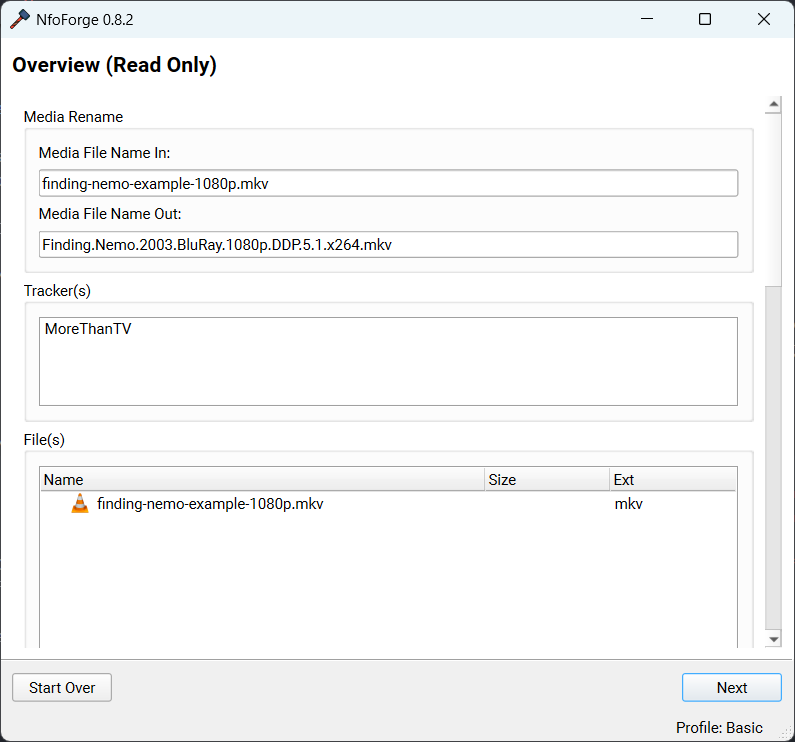
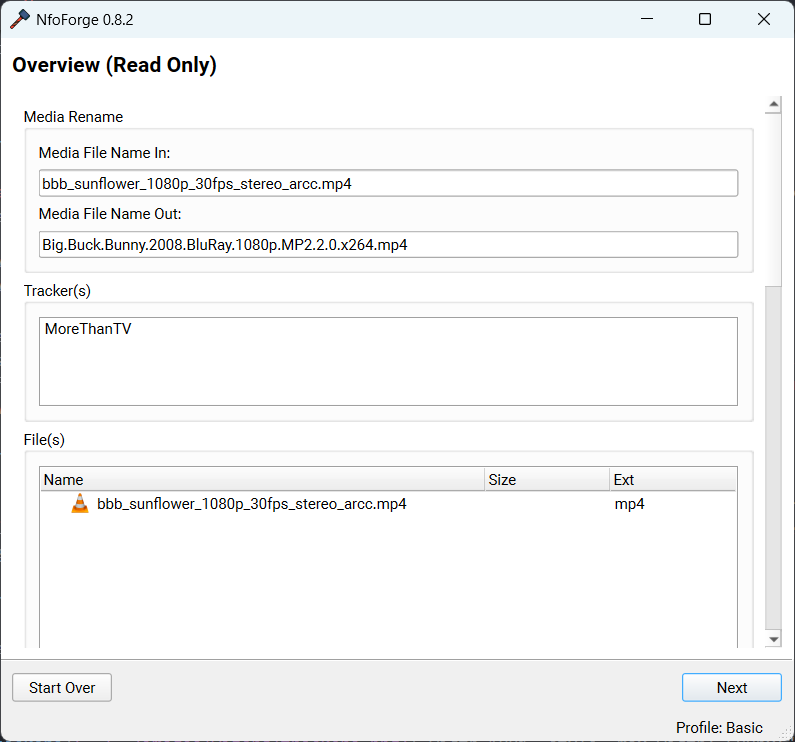
refactor: update

diff --git a/docs/view/getting-started/using-the-wizard.md b/docs/view/getting-started/using-the-wizard.md
@@ -1,9 +1,9 @@
 # Using the Wizard
 
-For this guide, we'll be using the movie [Finding Nemo (2003)](https://www.imdb.com/title/tt0266543/).
+For this guide, we'll be using the movie [Big Buck Bunny (2008)](https://www.imdb.com/title/tt1254207/).
 
 ```text {.scrollable-code-block}
---8<-- "docs/snippets/finding-nemo-example-1080p_mediainfo.txt"
+--8<-- "docs/snippets/bbb_mediainfo.txt"
 ```
 
 ### Input Page
@@ -31,7 +31,7 @@ This will parse IMDb, TVDb, and Anilist to return metadata for the selected titl
 
 <small>_As long as you have **Rename Movie** ticked in **Settings -> Movie** you will see this page. It is enabled by default._</small>
 
-You'll notice that the **TokenReplacer** engine has already used a combination of the filename, metadata, and MediaInfo to give you a clean/proper output: `Finding.Nemo.2003.BluRay.1080p.DDP.5.1.x264`. This supports numerous overrides and selections, but those will be covered later in the guide. For now, you can simply click **Next** to continue.
+You'll notice that the **TokenReplacer** engine has already used a combination of the filename, metadata, and MediaInfo to give you a clean/proper output: `Big.Buck.Bunny.2008.BluRay.1080p.MP2.2.0.x264`. This supports numerous overrides and selections, but those will be covered later in the guide. For now, you can simply click **Next** to continue.
 
 ### Images Page
 
